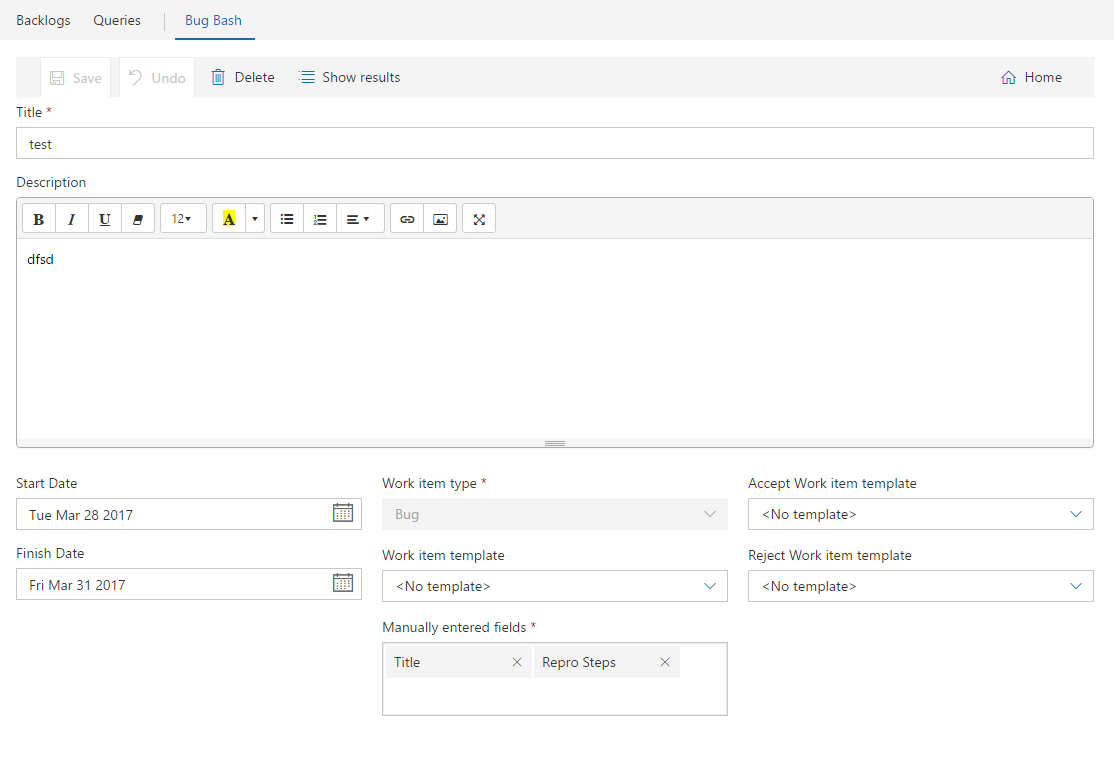
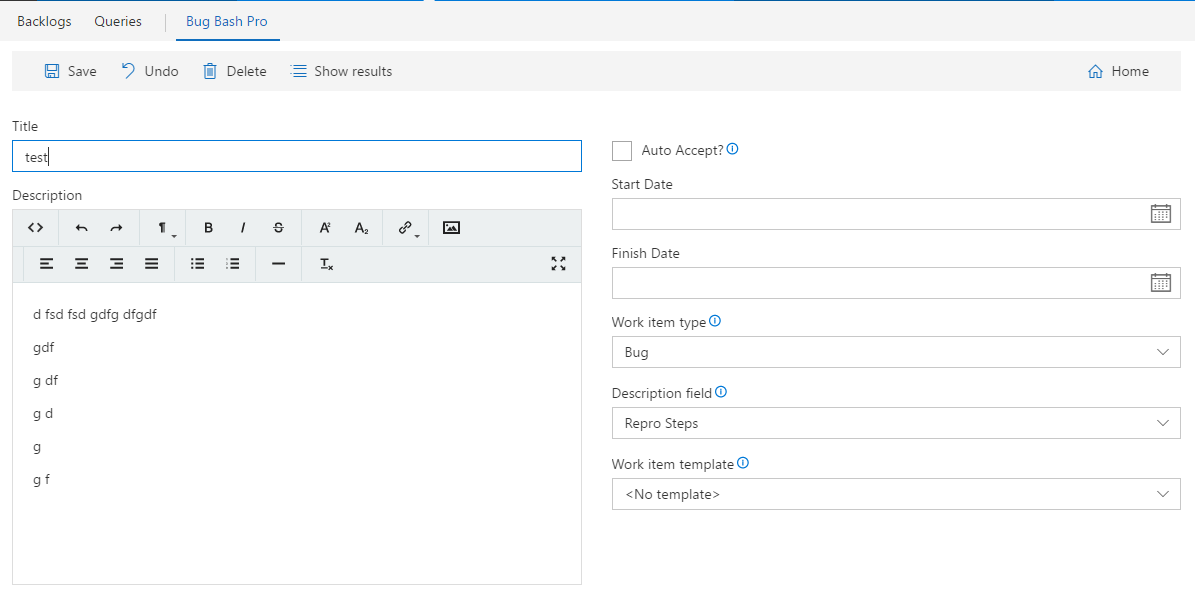
release private

diff --git a/scripts/Components/BugBashEditor.tsx b/scripts/Components/BugBashEditor.tsx
@@ -144,7 +144,23 @@ export class BugBashEditor extends BaseComponent<IBugBashEditorProps, IBugBashEd
                             onGetErrorMessage={this._getTitleError} />
 
                         <Label>Description</Label>
-                        <RichEditor containerId="rich-editor" data={model.description} onChange={(newValue: string) => this._updateDescription(newValue)} />
+                        <RichEditor 
+                            containerId="bugbash-description-editor" 
+                            data={model.description} 
+                            editorOptions={{
+                                svgPath: `${VSS.getExtensionContext().baseUri}/css/libs/icons.svg`,
+                                btns: [
+                                    ['formatting'],
+                                    ['bold', 'italic'], 
+                                    ['link'],
+                                    ['superscript', 'subscript'],
+                                    ['insertImage'],
+                                    'btnGrp-lists',
+                                    ['removeformat'],
+                                    ['fullscreen']
+                                ]
+                            }}
+                            onChange={(newValue: string) => this._updateDescription(newValue)} />
                     </div>
                     <div className="second-section">
                         <div className="checkbox-container">                            

diff --git a/scripts/Components/BugBashItemEditor.tsx b/scripts/Components/BugBashItemEditor.tsx
@@ -118,6 +118,7 @@ export class BugBashItemEditor extends BaseComponent<IBugBashItemEditorProps, IB
                             containerId="description-editor" 
                             data={item.model.description} 
                             editorOptions={{
+                                svgPath: `${VSS.getExtensionContext().baseUri}/css/libs/icons.svg`,
                                 btns: [
                                     ['formatting'],
                                     ['bold', 'italic'], 

diff --git a/README.md b/README.md
@@ -1,2 +1,45 @@
-# vsts-extensions-bugbash-v2
-v2 of bugbash vsts extension
+# Bug Bash Pro
+
+# Manage team wide bug bashes
+A work hub extension that lets teams manage their bug bashes in a more efficient manner. When a new feature is being tested either org wide or team wide, a lots of bugs are created and its hard to track all the bugs created in one instance of testing. Users can use features like work item templates to use pre-defined set of field values while creating bugs and then track them using work item queries, but its a tedious process in 2 ways - 
+
+1. A work item form needs to be opened each time to create a workitem.
+2. To track all workitems in the bug bash, you need to navigate to the query view which makes you lose work item form view.
+
+Some teams use tools like OneNote or other note syncing apps where users can track all the workitems and add new workitems in the same page, but then someone has to manually create VSTS workitems from that note.
+
+This extension tries to simplify this in 2 ways -
+
+1. View all the workitems created in a bug bash instance while creating a new workitem.
+2. Quickly create new items, accept them if they are valid bugs and get a quick report on how many bugs were created per area path and who filed most number of bugs and deserves a prize :).
+
+<a name="overview"></a>
+#### Overview ####
+The home page of the extension shows all the past/ongoing/upcoming bug bash instances. 
+
+![Group](img/homepage.png)
+
+To create a new bug bash instance, click "New", which opens the bug bash editor
+
+![Group](img/editor.png)
+
+You can enter bug bash information in the editor to create it. Here are the properties of a bug bash instances -
+
+1. **Title** *(required)* - The title of the bug bash instance
+2. **Description** - A short description about the bug bash. It can describe what the bug bash is for. What features need to be tested etc.
+3. **Start Date** - A start date for the bug bash. This is not a required field. An empty start date means the bug bash is ongoing until it ends.
+4. **Finish Date** - An end date for the bug bash. This is not a required field. An empty end date means the bug bash never ends.
+5. **Work item type** *(required)* - Describes which type of workitem this bug bash instance associates with. 
+6. **Description Field** *(required)* - Describes which HTML field does the item description bounds to when you accept an item to create VSTS work item.
+7. **Work item template** - You can choose a work item template that would be used to autofill certain field values for each new workitem created in this bug bash instance. A work item template can be created from VSTS team admin view. Note that work item templates are team scoped, so in this dropdown, you can only choose templates which are in the scope of the current team.
+8. **Auto Accept** - Whether the item would be auto accepted as soon as its created. By accept, it means that a VSTS work item is created for the bug bash item.
+
+*P.S.* : Work item templates are defined per team per workitem type. So the templates in the dropdowns would be scoped to the current team and the workitem type selected from WorkItemType dropdown. Since the templates are team scoped, each bug bash instance is also scoped to a team. So the bug bash instance created in the context of team "t1" would not show up in the bug bash view in team "t2".
+
+![Group](img/editview.png)
+
+Once saved, click on "Show Results" to go to the results view of this bug bash instance.
+
+![Group](img/results.png)
+
+*P.S* - Each item row in the results view also has a context menu. So users can right click on a row (or on multiple selected rows) to open the context menu.
